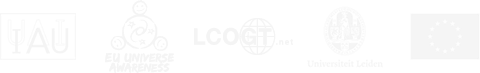
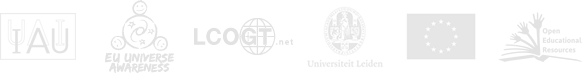
- added UNESCO OER as sponsor - fixed small layout issue on the collections list

diff --git a/templates/base.html b/templates/base.html
@@ -94,7 +94,7 @@ ul.unbulleted {
 	</div></div>
 
 	<div class="layout_footer"><div class="layout_container">
-		<div style="float: left; width: 508px;">
+		<div style="float: left; width: 458px;">
 			<div style="float: left; width: 250px;">
 				<ul class="unbulleted">
 					<li><a href="{% url 'activities:collections_list' %}">Collections</a></li>
@@ -103,7 +103,7 @@ ul.unbulleted {
 					<li><a href="/peerreview/">Peer Review</a></li>
 				</ul>
 			</div>
-			<div style="float: left; width: 250px;">
+			<div style="float: left; width: 200px;">
 				<ul class="unbulleted">
 					<li><a href="/about/">About</a></li>
 					<li><a href="/workflow/">Workflow</a></li>
@@ -113,7 +113,7 @@ ul.unbulleted {
 			</div>
 		<div style="clear: both"></div>
 		</div>
-		<div style="float: left; width: 508px; margin-left: 40px;">
+		<div style="float: left; width: 508px; margin-left: 10px;">
 			<div>
 				<img src="{% static 'designimages/sponsors.png' %}" usemap="#map"/>
 				<map name="map"> <!-- coords are: left top right bottom x-->
@@ -121,7 +121,9 @@ ul.unbulleted {
 	  				<area shape="rect" coords="104,0,174,73" alt="UNAWE" href="http://www.unawe.org" target="_blank">
 	  				<area shape="rect" coords="192,0,292,73" alt="LCOGT" href="http://lcogt.net" target="_blank">
 	  				<area shape="rect" coords="307,0,384,73" alt="Leiden University" href="http://www.leiden.edu" target="_blank">
-	  				<area shape="rect" coords="409,0,480,73" alt="European Comission" href="http://ec.europa.eu/index_en.htm" target="_blank">
+	  				<area shape="rect" coords="406,0,477,73" alt="European Comission" href="http://ec.europa.eu/index_en.htm" target="_blank">
+	  				<area shape="rect" coords="497,0,582,73" alt="UNESCO OER" href="http://www.unesco.org/new/en/communication-and-information/access-to-knowledge/open-educational-resources/what-are-open-educational-resources-oers/" target="_blank">
+
 				</map>
 			</div>
 		</div>

diff --git a/astroedu/activities/templates/collections/list_item.html b/astroedu/activities/templates/collections/list_item.html
@@ -2,9 +2,11 @@
     <div class="featured_item">
         <div class="title"><a href="{{ object.get_absolute_url }}">{{ object.title }}</a></div>
         <div class="image"><a href="{{ object.get_absolute_url }}"><img src="/media/collections/thumb/{{object.slug}}.jpg"/></a></div>
-        <div class="metadata2">
+        <div class="metadata3">
             <p style="margin-top: 0px; margin-bottom: 0px; ">{{ object.description }}</p>
-            <div style="float: right; margin-left: 11px; "><a href="{{ object.get_absolute_url }}"><img src="{% static 'designimages/arrow_next.png' %}"/></a></div>
+            <div>
+                <div style="float: right; margin-right: 11px; margin-top: 11px; "><a href="{{ object.get_absolute_url }}"><img src="{% static 'designimages/arrow_next.png' %}"/></a></div>
+            </div>
             <div style="clear: both"></div>
         </div>
         <div><img style="margin-top: 8px; margin-bottom: 16px;" src="{% static 'designimages/collection_footer.png' %}"/></div>
